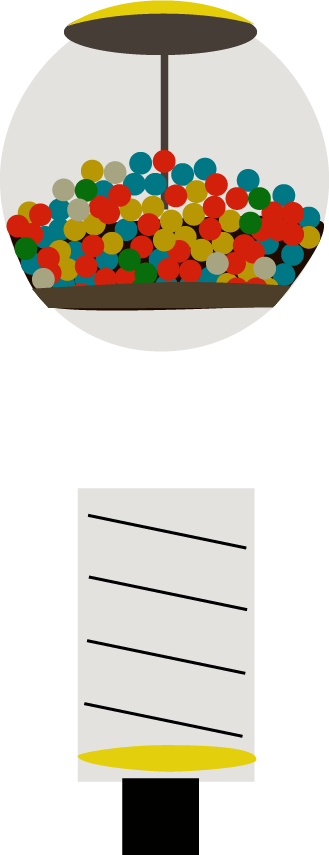
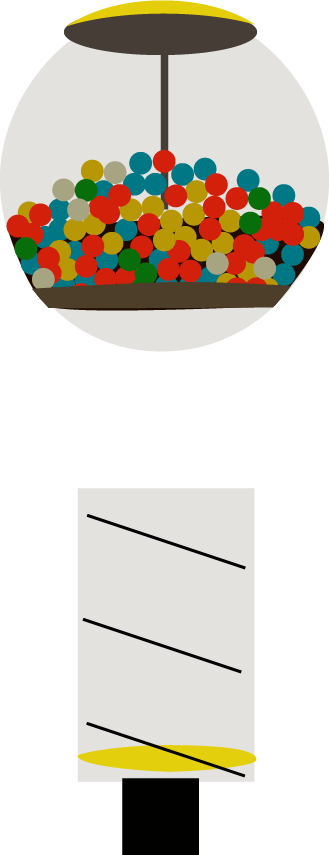
Complete gumball animation

diff --git a/gumball.py b/gumball.py
@@ -6,8 +6,8 @@ Authors: Emma Mack, Gabriella Bourdon
 import pygame
 from pygame.locals import * # you can skip the modulename. portion and simply use functionname() just like Python's built in functions
 from sys import exit
-import animation
 import random
+import math
 
 
 BLACK = ( 0, 0, 0)
@@ -39,15 +39,6 @@ class Machine_layer:
         size = self.image.get_size()
         self.image = pygame.transform.scale(self.image, (int(size[0]*amt), int(size[1]*amt)))
 
-#THIS ISN'T CURRENTLY BEING USED CAUSE IT MIGHT BE REDUNDANT
-class Layers:
-    def __init__(self, *images):
-        self.layers = []
-        for image in images:
-            self.layers.append(image)
-
-    def insert(self, obj, index):
-        self.layers.insert(index, obj)
 
 def get_index(layers, cl):
     for ind in range(len(layers)):
@@ -57,23 +48,50 @@ def get_index(layers, cl):
 class Surprise(Quarter):
     pass
 
-# class Mouse(object):
-#     for event in pygame.event.get():
-#         if event.type == MOUSEBUTTONDOWN:
-#             print("Test")
-
 def gumball_animation(time, t_start, layers):
     t_since = time - t_start
-    gumball = layers[get_index(layers, Gumball)]
+    gumball_ind = get_index(layers, Gumball)
+    gumball = layers[gumball_ind]
 
-    if  0 < t_since < 150:
-        gumball.x += 5
-        gumball.y += 5
+    speed = 6
+    slope = 0.2087
+    width = 127
 
-    return layers
+    if t_since == 0:
+        gumball.x, gumball.y = 483, 473
+    if t_since == int(5.1*width/speed):
+        return layers, False, True
 
-def surprise_animation():
-    pass
+    if t_since == int(width/speed) or t_since == int(3*width/speed):
+        layers.pop(gumball_ind)
+        layers.insert(gumball_ind + 1, gumball)
+    if t_since == int(2*width/speed) or t_since == int(4*width/speed):
+        layers.pop(gumball_ind)
+        layers.insert(gumball_ind - 1, gumball)
+
+    if  (0 < t_since < int(width/speed) or int(2*width/speed) < t_since < int(3*width/speed)
+                or int(4*width/speed) < t_since < int(4.4*width/speed)):
+        gumball.x += speed
+        gumball.y += math.ceil(speed*slope)
+    if (int(width/speed) < t_since < int(2*width/speed)
+                or int(3*width/speed) < t_since < int(4*width/speed)):
+        gumball.x -= speed
+        gumball.y += math.ceil(speed*slope)
+    if int(4.4*width/speed) < t_since < int(5.1*width/speed):
+        gumball.y += speed
+
+    return layers, True, False
+
+def surprise_animation(time, t_start, layers):
+    t_since = time - t_start
+    gumball_ind = get_index(layers, Gumball)
+    gumball = layers[gumball_ind]
+
+    if 0 < t_since < 20:
+        gumball.x += 15
+        gumball.y -= 10
+
+    return layers, True
 
 def main():
     pygame.init()
@@ -106,32 +124,39 @@ def main():
     done = False
     gumball_animation_playing = False
     surprise_animation_playing = False
+    g_played = False
 
     while not done:
         mouse_pos_x, mouse_pos_y = pygame.mouse.get_pos()
-        print(mouse_pos_x,mouse_pos_y)
+        print(mouse_pos_x, mouse_pos_y)
         #get input: exit game, check for click
         for event in pygame.event.get():
             if event.type == pygame.QUIT or (event.type == KEYDOWN and event.key == K_ESCAPE):
                 done = True
-            if event.type == MOUSEBUTTONDOWN: #TODO: change to specific clicking area
+            if event.type == MOUSEBUTTONDOWN and not g_played: #TODO: change to specific clicking area
                 gumball_animation_playing = True
                 t_start = time
-                mouse_pos_x, mouse_pos_y = pygame.mouse.get_pos()
                 gumball = Gumball(color = random.choice(colors))
                 layers.insert(1, gumball)
+            if event.type == MOUSEBUTTONDOWN and g_played:
+                surprise_animation_playing = True
+                t_start = time
 
 
         screen.fill(BLACK)
 
         if gumball_animation_playing:
-            layers = gumball_animation(time, t_start, layers)
+            layers, gumball_animation_playing, g_played = gumball_animation(time, t_start, layers)
+
+        if surprise_animation_playing:
+            layers, surprise_animation_playing = surprise_animation(time, t_start, layers)
 
         for layer in layers:
             if isinstance(layer, Machine_layer) or isinstance(layer, Quarter):
                 screen.blit(layer.image, (layer.x,layer.y))
             if isinstance(layer, Gumball):
                 pygame.draw.circle(screen, layer.color, (layer.x, layer.y), 10)
+
         if not gumball_animation_playing:
             if int(mouse_pos_x) in range(527,588) and int(mouse_pos_y) in range(394,411):
                 screen.blit(this_dark_quarter2.image,(mouse_pos_x-15,mouse_pos_y-15))
